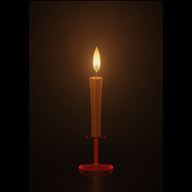
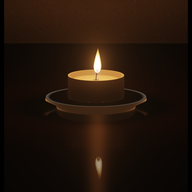
アイコンを「小さな灯」にもどす(並びを変えたときに別のろうそくになっていた)

diff --git a/tools/assets.py b/tools/assets.py
@@ -19,7 +19,7 @@ with socketserver.ThreadingTCPServer(("127.0.0.1", 0), functools.partial(H, dire
         br = p.chromium.launch(executable_path=CHROME, headless=True, args=["--mute-audio", "--use-angle=metal", "--enable-gpu", "--ignore-gpu-blocklist"])
         # アイコン: 場面そのものから切りぬく(小さな灯。土壁の光のたまり と 漆の映り込み)
         pg = br.new_page(viewport={"width": 600, "height": 900}, device_scale_factor=2)
-        pg.goto(f"{base}/tools/view.html?c=5&sway=0&b=2"); time.sleep(3)
+        pg.goto(f"{base}/tools/view.html?c={ids.index('tea')}&sway=0&b=2"); time.sleep(3)   # アイコンは いつも「小さな灯」
         pos = pg.evaluate("""(() => { const s = __s, cv = s.canvas, f = s.framing(cv.width, cv.height), d = s.candleDims(), c = d.c;
           const top = c.holder.H + d.H; const fy = top - c.depth + d.wl*0.55 + d.fh*0.45;
           return { x: f.ox / cv.width, y: 1 - (f.oy + fy * f.S) / cv.height, s: f.S / cv.height, fh: d.fh }; })()""")
